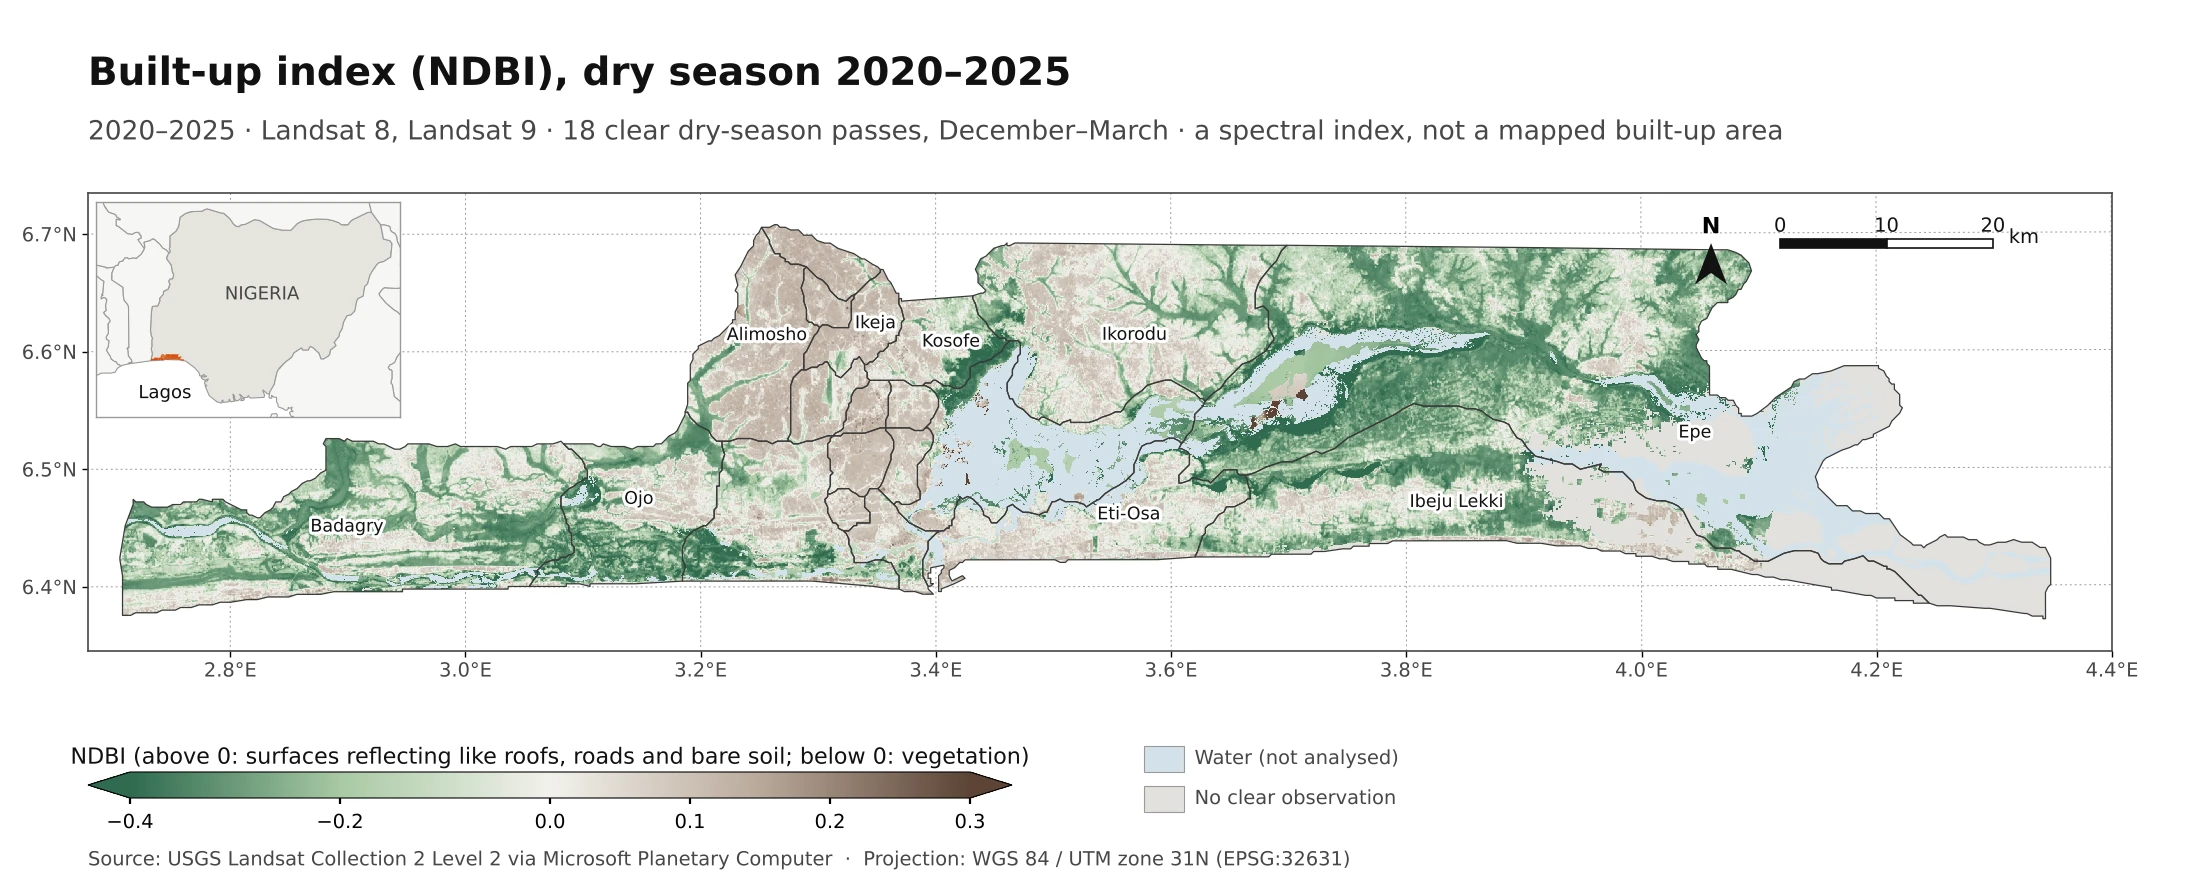
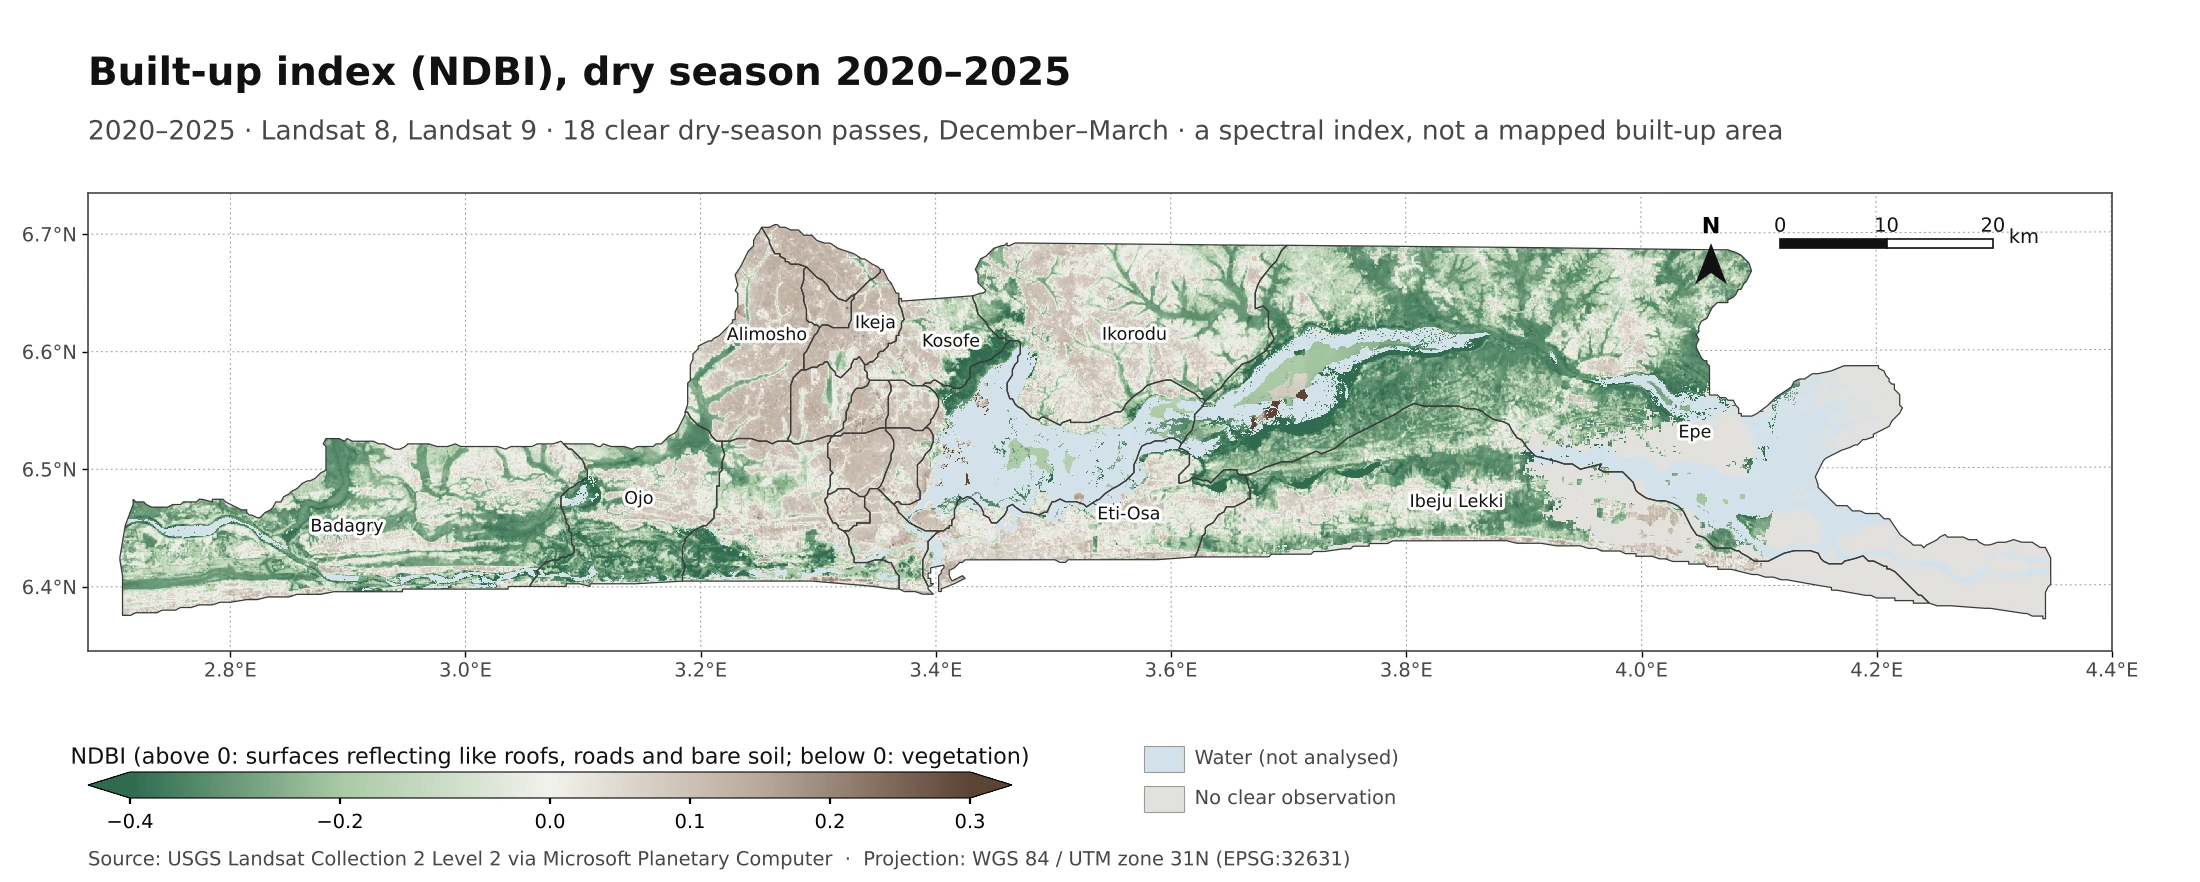
Render access, low-ground and LGA maps and drop the locator inset
Adds maps 17 to 26. Removes the Nigeria locator inset from every study-area map.

Changed region(s): [[0.0309, 0.2143, 0.1855, 0.4592], [0.1236, 0.4592, 0.1545, 0.4898]]

diff --git a/scripts/render_maps.py b/scripts/render_maps.py
@@ -1,7 +1,7 @@
 """Publication maps for the study page from the rasters of scripts/pc_build_rasters.py.
 
 One cartographic template for every map: title and subtitle, legend with units, scale bar, north
-arrow, latitude/longitude graticule, LGA and state boundaries, no-data entry, optional locator inset,
+arrow, latitude/longitude graticule, LGA and state boundaries, no-data entry,
 and a credit line with sources, coordinate system, author and date. Maps are drawn in the grid's
 own projection, WGS 84 / UTM zone 31N (EPSG:32631), so the scale bar is exact.
 
@@ -29,7 +29,7 @@ from rasterio.warp import transform_geom
 ROOT = Path(__file__).resolve().parents[1]
 RAS = ROOT / "research" / "rasters"
 OUT = ROOT / "docs" / "assets" / "maps"
-DATE = "8 November 2026"
+DATE = "9 November 2026"
 AUTHOR = "D. O. Oloyede"
 CRS_NOTE = "WGS 84 / UTM zone 31N (EPSG:32631)"
 INK, INK2, RULE = "#111111", "#474747", "#d0cfca"
@@ -67,7 +67,6 @@ class Base:
 
     def __init__(self):
         self.lgas = json.loads((ROOT / "docs" / "data" / "lagos_uhi_processed.geojson").read_text())
-        self.ctry = json.loads((ROOT / "research" / "locator_countries.geojson").read_text())  # Natural Earth 1:50m
         ids, self.t = load("lagos_land.tif")
         self.state_ids = None
         with rasterio.open(RAS / "lagos_land.tif") as s:
@@ -158,20 +157,6 @@ class Base:
                 ax.text(pt.x, pt.y, n, fontsize=6.3, ha="center", va="center", color=INK, zorder=7,
                         path_effects=[pe.withStroke(linewidth=2.2, foreground="white")])
 
-    def locator(self, host):
-        ax = host.inset_axes([0.004, 0.50, 0.15, 0.49])
-        ax.set_facecolor("white")
-        for ft in self.ctry["features"]:
-            polys = [ft["geometry"]["coordinates"]] if ft["geometry"]["type"] == "Polygon" else ft["geometry"]["coordinates"]
-            for pg in polys:
-                ax.add_patch(MplPolygon(np.array(pg[0]), closed=True, facecolor="#e6e4de" if ft["properties"]["name"] == "Nigeria" else "#f6f6f4", edgecolor="#9a9a9a", lw=0.4))
-        for f in self.lgas["features"]:
-            ax.add_patch(MplPolygon(np.array(f["geometry"]["coordinates"][0]), closed=True, facecolor="#d9500b", edgecolor="none"))
-        ax.set_xlim(0.0, 15.0); ax.set_ylim(3.6, 14.2); ax.set_zorder(9); ax.set_aspect("equal"); ax.set_xticks([]); ax.set_yticks([])
-        ax.text(8.2, 9.4, "NIGERIA", fontsize=6.5, color=INK2, ha="center"); ax.text(3.4, 5.2, "Lagos", fontsize=6.5, color=INK, ha="center", va="top")
-        for s in ax.spines.values():
-            s.set_color("#9a9a9a"); s.set_linewidth(0.5)
-
     def credit(self, fig, h, source):
         fig.text(0.04, 0.06 / h, f"Source: {source}  ·  Projection: {CRS_NOTE}", fontsize=7, color=INK2, va="bottom")
 
@@ -228,7 +213,7 @@ def map_reference(B):
     for f, s in zip(B.lgas["features"], B.shapes):
         if f["properties"]["land_area_km2"] >= 60:
             ring = np.array(s["coordinates"][0]); ax.text(ring[:, 0].mean(), ring[:, 1].mean(), f["properties"]["lga_name"], fontsize=6.5, ha="center", va="center", color=INK, zorder=7)
-    B.scalebar(ax); B.locator(ax)
+    B.scalebar(ax)
     fig.patches.append(Rectangle((0.04, 0.36 / h), 0.018, 0.13 / h, transform=fig.transFigure, facecolor="#a9cf96", edgecolor="#9a9a9a", lw=0.4))
     fig.text(0.063, 0.425 / h, "Countryside reference (unbuilt land within 20 km)", fontsize=7.5, va="center")
     fig.patches.append(Rectangle((0.36, 0.36 / h), 0.018, 0.13 / h, transform=fig.transFigure, facecolor="#f4f2ec", edgecolor="#3a3a3a", lw=0.4))
@@ -246,7 +231,7 @@ def map_landcover(B):
         idx[wc == c] = i
     idx = np.where(B.inside > 0, idx, np.nan)
     ax.imshow(idx, extent=B.extent, cmap=mcolors.ListedColormap([c for _, _, c in WORLDCOVER]), vmin=-0.5, vmax=len(codes) - 0.5, interpolation="nearest", zorder=3)
-    B.boundaries(ax, color="#222222"); B.scalebar(ax); B.locator(ax)
+    B.boundaries(ax, color="#222222"); B.scalebar(ax)
     tot = np.isfinite(idx).sum()
     handles = [Patch(facecolor=col, edgecolor="#9a9a9a", lw=0.3, label=f"{lab} {pct(100 * (wc[B.inside > 0] == c).sum() / tot)}") for c, lab, col in WORLDCOVER if (wc[B.inside > 0] == c).any()]
     fig.legend(handles=handles, loc="lower left", bbox_to_anchor=(0.035, 0.24 / h), ncol=5, fontsize=7, frameon=False, handlelength=1.2, columnspacing=1.2)
@@ -260,7 +245,7 @@ def pct(v):
 
 def single(B, name, title, sub, arr, cmap, norm, label, ticks=None, extend="neither", source=LS):
     fig, (ax,), h = B.figure(title, sub)
-    im = B.raster(ax, arr, cmap, norm); B.boundaries(ax); B.labels(ax); B.scalebar(ax); B.locator(ax)
+    im = B.raster(ax, arr, cmap, norm); B.boundaries(ax); B.labels(ax); B.scalebar(ax)
     B.colorbar(fig, im, h, label, ticks, extend); B.credit(fig, h, source)
     return save(fig, name)
 
@@ -272,7 +257,7 @@ def triple(B, name, title, sub, key, cmap, norm, label, ticks=None, extend="neit
         im = B.raster(ax, arr, cmap, norm); B.boundaries(ax)
         ax.text(0.44, 0.025, period_note(lab), transform=ax.transAxes, fontsize=8, fontweight="bold", va="bottom", color=INK, zorder=8,
                 bbox=dict(facecolor="white", edgecolor="none", alpha=0.85, pad=2))
-    B.scalebar(axes[0]); B.locator(axes[0]); B.colorbar(fig, im, h, label, ticks, extend); B.credit(fig, h, LS)
+    B.scalebar(axes[0]); B.colorbar(fig, im, h, label, ticks, extend); B.credit(fig, h, LS)
     return save(fig, name)
 
 
@@ -297,7 +282,7 @@ def map_hotspots(B, A):
         rgba[cls == k] = mcolors.to_rgba(c)
     B.raster(ax, np.full(B.shape, np.nan), mcolors.ListedColormap([NODATA]), mcolors.Normalize(0, 1))   # in-state water and no-data underneath
     ax.imshow(rgba, extent=ext, interpolation="nearest", zorder=3)
-    B.boundaries(ax); B.labels(ax); B.scalebar(ax); B.locator(ax)
+    B.boundaries(ax); B.labels(ax); B.scalebar(ax)
     items = [(cols[3], f"Hot spot ({hs['hot']:,} cells)"), (cols[1], f"Cold spot ({hs['cold']:,} cells)"),
              (cols[2], f"Not significant ({hs['not_significant']:,} cells)"), (NODATA, "Too few clear observations"), (WATER, "Water")]
     for k, (c, txt) in enumerate(items):
@@ -325,7 +310,7 @@ def map_bivariate(B, A):
     ax.imshow(np.where(miss & B.water, 1.0, np.nan), extent=B.extent, cmap=mcolors.ListedColormap([WATER]), interpolation="nearest", zorder=2)
     ax.imshow(np.where(miss & ~B.water, 1.0, np.nan), extent=B.extent, cmap=mcolors.ListedColormap([NODATA]), interpolation="nearest", zorder=2)
     ax.imshow(rgba, extent=B.extent, interpolation="nearest", zorder=3)
-    B.boundaries(ax); B.labels(ax); B.scalebar(ax); B.locator(ax)
+    B.boundaries(ax); B.labels(ax); B.scalebar(ax)
     lh = 0.78                                           # legend square, inches
     lax = fig.add_axes([0.075, 0.42 / h, lh / 11, lh / h])
     lax.imshow(np.array(pal), origin="lower", extent=(0, 3, 0, 3))
@@ -375,6 +360,103 @@ def chart_exposure(A):
              "Surface temperature, not air temperature.", fontsize=7.5, color=INK2)
     fig.text(0.04, 0.012, "Source: Landsat Collection 2 Level 2 (Planetary Computer); WorldPop 2020 (unconstrained, modelled)", fontsize=7, color=INK2)
     return save(fig, "m15_exposure")
+
+
+def load_int(name):
+    with rasterio.open(RAS / name) as s:
+        a = s.read(1).astype("float32")
+        a[a == 255] = np.nan
+        return a
+
+
+def map_access_gap(B, X):
+    cls = load_int("access_heat_class.tif")
+    cmap = mcolors.ListedColormap(["#e9f2e4", "#f2b98a", "#a93a08"])
+    share = X["gap_beyond_300m_and_hot"]["share_of_total"] * 100
+    return single(B, "m20_access_gap", "Green-space gap and heat, 2020–2025",
+                  f"Residents more than 300 m from vegetation who also live on cells at least 4 °C warmer than the countryside: {share:.0f}% of the 2020 population",
+                  np.where(B.inside > 0, cls, np.nan), cmap, mcolors.Normalize(-0.5, 2.5),
+                  "0 = within 300 m of vegetation; 1 = beyond 300 m, under 4 °C; 2 = beyond 300 m, 4 °C or more",
+                  [0, 1, 2], "neither", source="Landsat NDVI and surface heat 2020–2025; WorldPop 2020 (modelled)")
+
+
+def lga_values_map(B, name, title, sub, values, cmap, norm, label, ticks, extend="neither"):
+    """Fill each LGA on the grid with its value (LGA index raster written by scripts/extra_analysis.py)."""
+    idx = load_int("lga_index.tif")
+    order = EXTRA["lga_order"]
+    arr = np.full(idx.shape, np.nan, "float32")
+    for i, n in enumerate(order, start=1):
+        if n in values:
+            arr[idx == i] = values[n]
+    return single(B, name, title, sub, arr, cmap, norm, label, ticks, extend,
+                  source="LGA boundaries (FAO GAUL 2015); Landsat surface heat 2020–2025; WorldPop 2020 (modelled)")
+
+
+def chart_bars(name, title, sub, labels, series, xlabel, foot):
+    """Horizontal bar chart; series = list of (values, colour, legend label)."""
+    fig = plt.figure(figsize=(11, 6.4), dpi=150)
+    h = 6.4
+    fig.text(0.04, 1 - 0.28 / h, title, fontsize=14, fontweight="bold", va="top")
+    fig.text(0.04, 1 - 0.60 / h, sub, fontsize=9.5, color=INK2, va="top")
+    ax = fig.add_axes([0.24, 0.2, 0.72, 0.66])
+    y = np.arange(len(labels)); bh = 0.8 / len(series)
+    for k, (vals, col, lab) in enumerate(series):
+        ax.barh(y + (k - (len(series) - 1) / 2) * bh, vals, height=bh, color=col, label=lab)
+    ax.set_yticks(y); ax.set_yticklabels(labels, fontsize=8); ax.invert_yaxis()
+    ax.set_xlabel(xlabel, fontsize=8.5); ax.tick_params(labelsize=7.5, length=2)
+    for sp in ("top", "right"):
+        ax.spines[sp].set_visible(False)
+    ax.grid(axis="x", color="#e2e1dc", lw=0.5); ax.set_axisbelow(True)
+    if len(series) > 1:
+        fig.legend(*ax.get_legend_handles_labels(), ncol=len(series), fontsize=7.5, frameon=False, loc="lower left", bbox_to_anchor=(0.04, 0.075))
+    fig.text(0.04, 0.012, foot, fontsize=7, color=INK2)
+    return save(fig, name)
+
+
+def map_landcover_heat(X):
+    rows = [(v["name"], v) for k, v in sorted(X["landcover"].items(), key=lambda kv: -kv[1]["population_share"]) if v["population_share"] > 0.0005]
+    labels = [f"{n}  ({v['area_share'] * 100:.0f}% of area, {v['population_share'] * 100:.0f}% of people)" for n, v in rows]
+    return chart_bars("m21_landcover_heat", "Heat island by land cover, 2020–2025",
+                      "Median surface heat island of each cell, by ESA WorldCover 2021 class; cells with at least 3 clear passes",
+                      labels, [([v["median_suhi_c"] for _, v in rows], "#d9500b", "Median heat island, °C")],
+                      "°C warmer than the countryside (median cell)",
+                      "Source: ESA WorldCover 2021; Landsat Collection 2 Level 2 (Planetary Computer). Associations only: land cover and built-up density are not separated.")
+
+
+def chart_distance_bands(X):
+    bands = list(X["distance_bands"].items())
+    labels = [f"{k}  ({v['population_share'] * 100:.0f}% of people)" for k, v in bands]
+    return chart_bars("m22_distance_heat", "Heat along the green-space gradient, 2020–2025",
+                      "Population-weighted mean heat island by distance from each cell to the nearest vegetated cell (NDVI ≥ 0.4)",
+                      labels, [([v["pop_weighted_mean_suhi_c"] for _, v in bands], "#a93a08", "Population-weighted mean heat island, °C")],
+                      "°C warmer than the countryside (population-weighted)",
+                      "Source: Landsat Collection 2 Level 2 (Planetary Computer); WorldPop 2020 (modelled). Distance bands are not a walking network.")
+
+
+def map_lga_beyond(B, X):
+    vals = {n: v["population_beyond_300m_share"] * 100 for n, v in X["lga"].items()}
+    return lga_values_map(B, "m23_lga_beyond300", "Share of residents beyond 300 m from green space, by LGA",
+                          "WorldPop 2020 residents of each LGA whose cell is more than 300 m from vegetated land (NDVI ≥ 0.4)",
+                          vals, HEAT, mcolors.Normalize(0, 100),
+                          "% of LGA residents more than 300 m from green space", [0, 25, 50, 75, 100])
+
+
+def map_lga_heat(B, X):
+    vals = {n: v["pop_weighted_mean_suhi_c"] for n, v in X["lga"].items() if v["pop_weighted_mean_suhi_c"] is not None}
+    return lga_values_map(B, "m24_lga_heat", "Population-weighted heat island by LGA, 2020–2025",
+                          "Mean surface heat island of the cells where each LGA's residents live (WorldPop 2020 weights)",
+                          vals, SUHI, SUHI_NORM, "°C warmer than the countryside (population-weighted)", [-4, -2, 0, 2, 4, 6, 8, 10], "both")
+
+
+def map_veg_sensitivity(B, thr, name):
+    d, _ = load(f"veg_distance_{thr}_m.tif")
+    d = np.where(d < 0, np.nan, d)
+    return single(B, name, f"Walking distance to green space at NDVI ≥ {thr}, 2020–2025",
+                  f"Sensitivity check: the same analysis with a vegetation cut-off of {thr} instead of 0.4",
+                  np.where(B.inside > 0, np.minimum(d, 1000), np.nan),
+                  mcolors.LinearSegmentedColormap.from_list("dist", ["#0b461e", "#7fc283", "#f3efe2", "#d9a26b", "#8a4a1c"]),
+                  mcolors.Normalize(0, 1000), "Distance to vegetation, m (1000 m and above as one class)", [0, 300, 600, 1000], "max",
+                  source="USGS Landsat NDVI median 2020–2025")
 
 
 def main():
@@ -428,6 +510,40 @@ def main():
     built["m13_hotspots"] = map_hotspots(B, A)
     built["m14_ndvi_heat"] = map_bivariate(B, A)
     built["m15_exposure"] = chart_exposure(A)
+    # access and low-ground maps (scripts/access_analysis.py writes the rasters and docs/data/access.json)
+    X = json.loads((ROOT / "docs" / "data" / "access.json").read_text())
+    dist, _ = load("veg_distance_m.tif")
+    built["m17_green_access"] = single(B, "m17_green_access", "Walking distance to green space, 2020–2025",
+                                       f"Distance to the nearest vegetated 60 m cell (dry-season NDVI ≥ {X['veg_ndvi_threshold']}); "
+                                       f"{X['population_beyond_300m_share'] * 100:.0f}% of the 2020 population lives more than {X['access_m']:.0f} m from one "
+                                       f"({X['population_beyond_300m_ndvi_sensitivity']['0.3']['population_beyond_300m_share'] * 100:.0f}–"
+                                       f"{X['population_beyond_300m_ndvi_sensitivity']['0.5']['population_beyond_300m_share'] * 100:.0f}% for NDVI 0.3–0.5)",
+                                       np.where(B.inside > 0, np.minimum(dist, 1000), np.nan),
+                                       mcolors.LinearSegmentedColormap.from_list("dist", ["#0b461e", "#7fc283", "#f3efe2", "#d9a26b", "#8a4a1c"]),
+                                       mcolors.Normalize(0, 1000), "Distance to vegetation, m (straight line; 1000 m and above shown as one class)",
+                                       [0, 300, 600, 1000], "max", source="USGS Landsat NDVI median 2020–2025; WorldPop 2020 (modelled)")
+    low, _ = load("low_ground_10m.tif")
+    built["m18_low_ground"] = single(B, "m18_low_ground", "Low ground below 10 m, Lagos",
+                                     f"Copernicus DEM GLO-30 elevation proxy for flood-prone ground, not a flood map; "
+                                     f"{X['low_ground_area_share'] * 100:.0f}% of the study area and {X['low_ground_population_share'] * 100:.0f}% of the 2020 population are below 10 m",
+                                     np.where(low == 1, 1.0, np.where(low == 0, 0.0, np.nan)),
+                                     mcolors.ListedColormap(["#f3efe2", "#1c5cab"]), mcolors.Normalize(0, 1),
+                                     "0 = at or above 10 m (light); 1 = below 10 m (blue)", [0, 1], "neither", source="Copernicus DEM GLO-30 (Planetary Computer)")
+    built["m19_low_ground_heat"] = single(B, "m19_low_ground_heat", "Surface heat island on low ground, 2020–2025",
+                                          f"Only cells below 10 m; cell median {X['heat_low_minus_other_median_c']:+.1f} °C against higher ground; "
+                                          f"descriptive, no interval (cells are spatially dependent)",
+                                          np.where((low == 1) & np.isfinite(suhi), suhi, np.nan), SUHI, SUHI_NORM,
+                                          "°C warmer (orange) or cooler (blue) than the countryside", [-4, -2, 0, 2, 4, 6, 8, 10], "both")
+    # extra analysis maps (scripts/extra_analysis.py writes the class rasters and docs/data/extra_analysis.json)
+    global EXTRA
+    EXTRA = json.loads((ROOT / "docs" / "data" / "extra_analysis.json").read_text())
+    built["m20_access_gap"] = map_access_gap(B, EXTRA)
+    built["m21_landcover_heat"] = map_landcover_heat(EXTRA)
+    built["m22_distance_heat"] = chart_distance_bands(EXTRA)
+    built["m23_lga_beyond300"] = map_lga_beyond(B, EXTRA)
+    built["m24_lga_heat"] = map_lga_heat(B, EXTRA)
+    built["m25_veg_ndvi03"] = map_veg_sensitivity(B, 0.3, "m25_veg_ndvi03")
+    built["m26_veg_ndvi05"] = map_veg_sensitivity(B, 0.5, "m26_veg_ndvi05")
     (OUT.parent.parent / "data").mkdir(exist_ok=True)
     (ROOT / "docs" / "data" / "maps.json").write_text(json.dumps({"built": DATE, "maps": built, "rasters": meta(), "worldcover_accuracy_africa_pct": WC_ACC_AFRICA}, indent=1) + "\n")
     print(json.dumps(built, indent=1))
